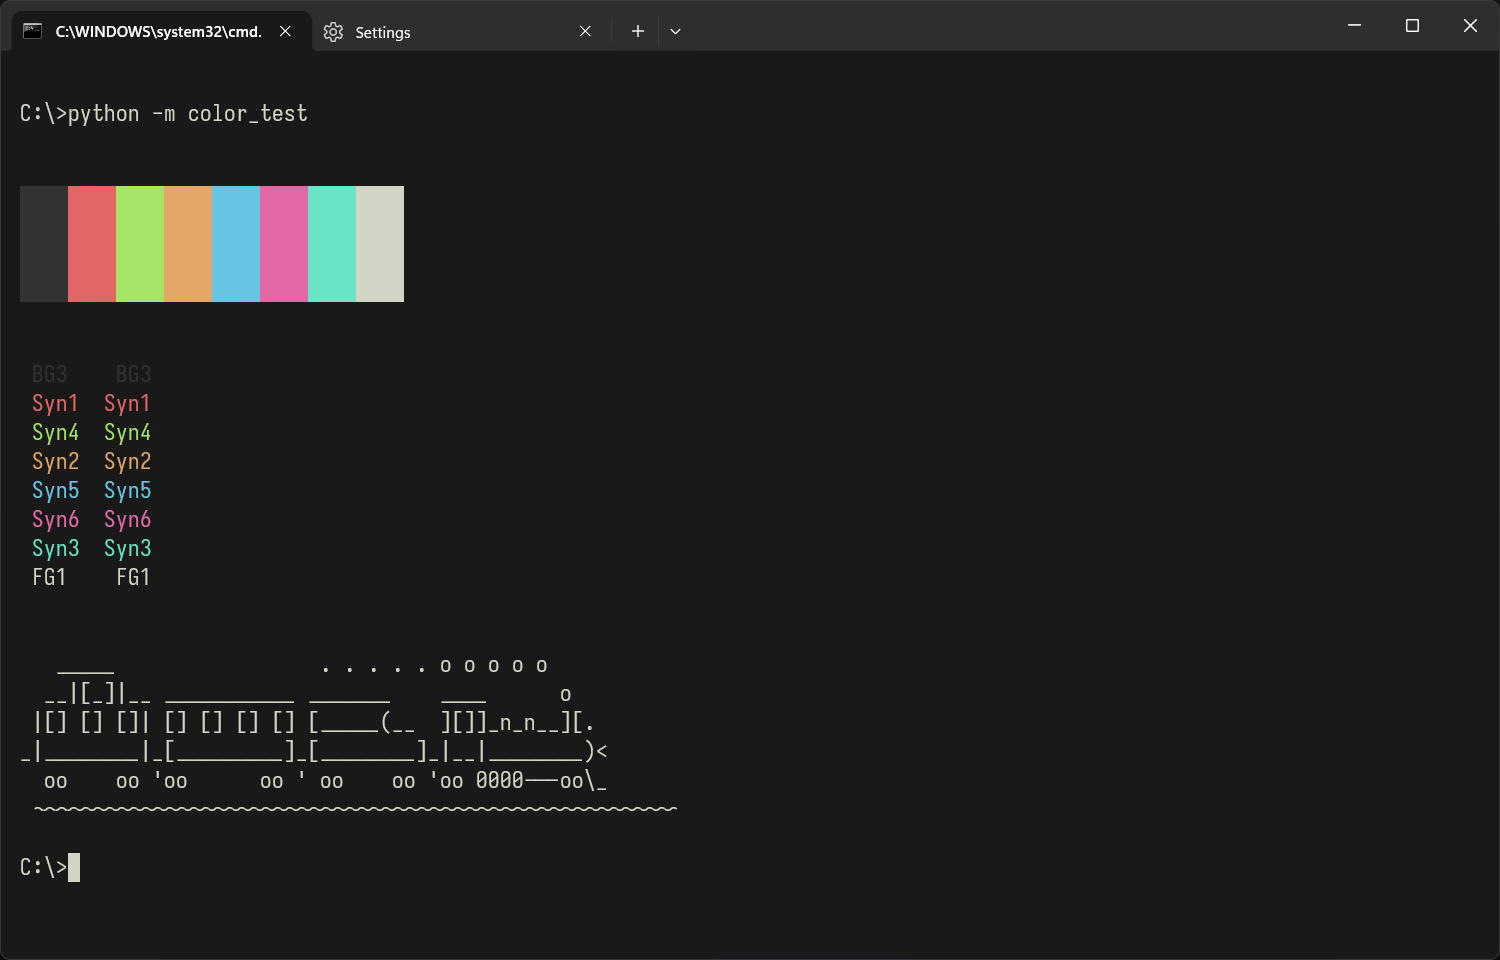
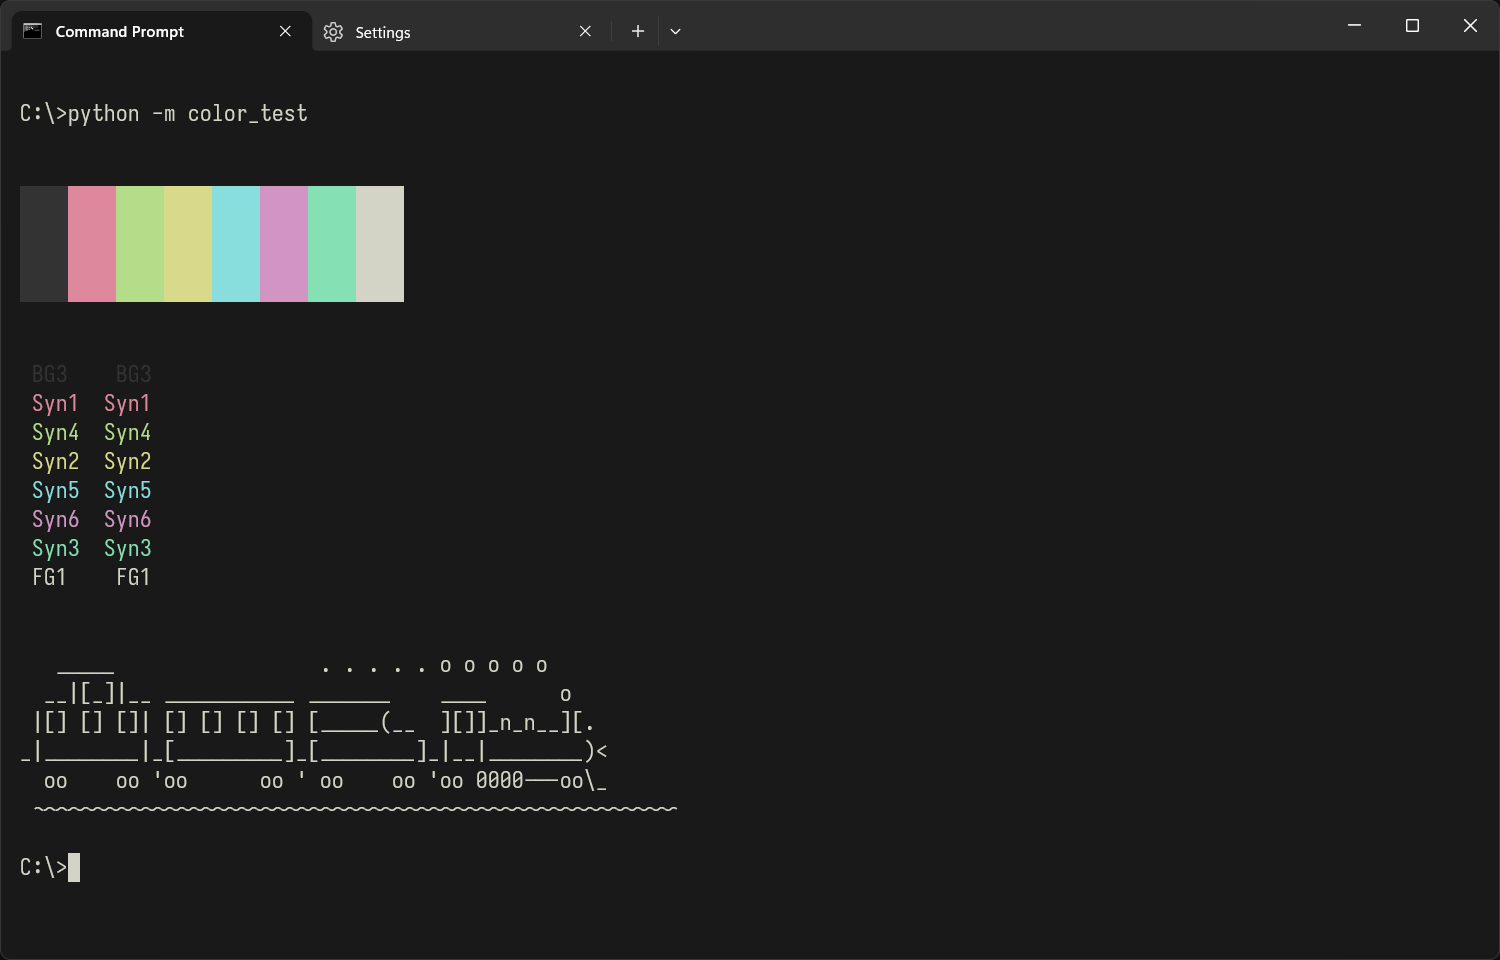
updating synthetic theme

diff --git a/scheme_files/other/synthetic.html b/scheme_files/other/synthetic.html
@@ -83,35 +83,35 @@ this template is meant as a reference sheet for your color theme
 			<tr>
 				<td>syntax 1<br><a>UI: change history modified, alert, error
                 <br>SYNTAX: macro, methods, functions, symbols (question mark, shebang, etc.)<br>TERMINAL: red</a></td>
-				<td>#e46767</td>
-				<td style="background-color:#e46767;"></td>
+				<td>#dd889d</td>
+				<td style="background-color:#dd889d;"></td>
 			</tr>
 			<tr>
 				<td>syntax 2<br><a>UI: change history revert origin, change history revert modified, warnings
                 <br>SYNTAX: strings, char, regex, verbatim<br>TERMINAL: yellow</a></td>
-				<td>#e4a667</td>
-				<td style="background-color:#e4a667;"></td>
+				<td>#d9d98c</td>
+				<td style="background-color:#d9d98c;"></td>
 			</tr>
 			<tr>
 				<td>syntax 3<br><a>SYNTAX: opertors, variables, identifiers<br>TERMINAL: cyan</a></td>
-				<td>#67e4c5</td>
-				<td style="background-color:#67e4c5;"></td>
+				<td>#85e0b3</td>
+				<td style="background-color:#85e0b3;"></td>
 			</tr>
 			<tr>
 				<td>syntax 4<br><a>UI: change history saved
                 <br>SYNTAX: conditionals, keywords, tags, commands, instructions<br>TERMINAL: green</a></td>
-				<td>#a6e467</td>
-				<td style="background-color:#a6e467;"></td>
+				<td>#b3dd88</td>
+				<td style="background-color:#b3dd88;"></td>
 			</tr>
 			<tr>
 				<td>syntax 5<br><a>SYNTAX: keys, types, class, groups, sections, preprocessor<br>TERMINAL: blue</a></td>
-				<td>#67c5e4</td>
-				<td style="background-color:#67c5e4;"></td>
+				<td>#88dddd</td>
+				<td style="background-color:#88dddd;"></td>
 			</tr>
 			<tr>
 				<td>syntax 6<br><a>SYNTAX: qualifier, numbers, booleans, attributes<br>TERMINAL: magenta (purple)</a></td>
-				<td>#e467a6</td>
-				<td style="background-color:#e467a6;"></td>
+				<td>#d194c3</td>
+				<td style="background-color:#d194c3;"></td>
 			</tr>
 		</table>
 		<br>

diff --git a/doc/galery.md b/doc/galery.md
@@ -132,7 +132,7 @@ This is my solution for a better (in my eyes) implementation of the solar punk g
 ![](/assets/pictures/text-editor/steampunk.png)<br><br>
 ![](/assets/pictures/terminal/steampunk.png)<br><br>
 **Synthetic**<br>
-This theme should mimic the look of an old inverted digital display. Combined with some poppy colors you get a "synthetic" look.<br><br>
+This theme should mimic the look of an old inverted digital display. Combined with some retro colors (when I played with the colors I had the 80's in mind) you get a "synthetic" look.<br><br>
 ![](/assets/pictures/text-editor/synthetic.png)<br><br>
 ![](/assets/pictures/terminal/synthetic.png)<br><br>
 **Vintage**<br>
